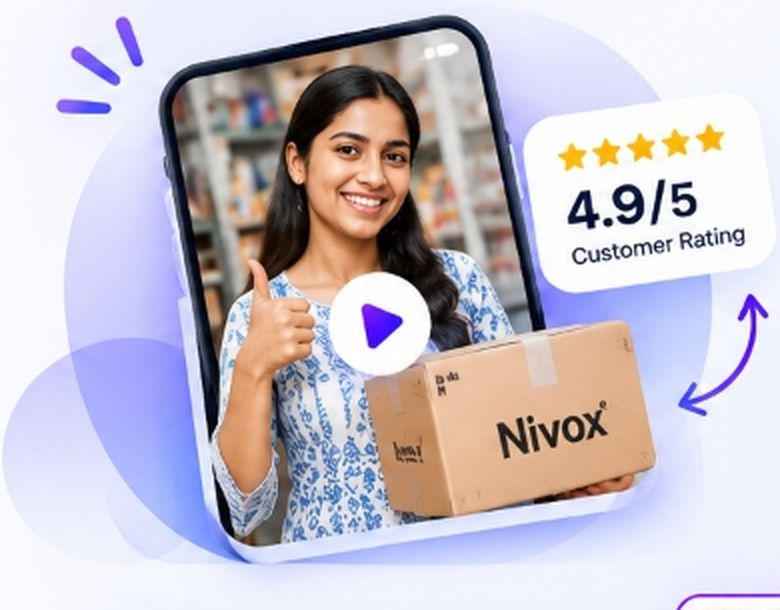
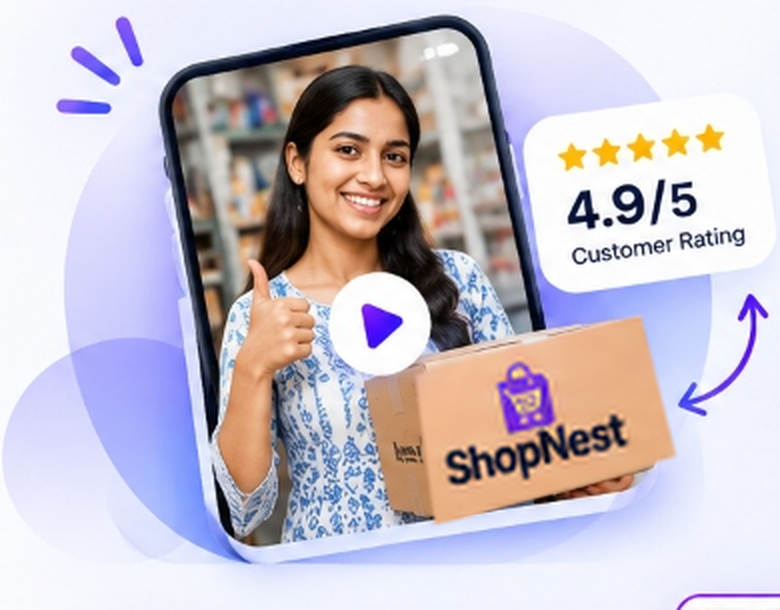
Update review showcase section branding to ShopNest matching uploaded reference image

Changed region(s): [[0.5231, 0.4984, 0.8923, 0.8721]]

diff --git a/src/scripts/views/reviewsView.js b/src/scripts/views/reviewsView.js
@@ -113,7 +113,7 @@ export const featuredReviewCards = [
     id: 3,
     name: "Vikram Patel",
     role: "Distributor, Coimbatore",
-    quote: "Bulk orders are now so easy with Ecommerce Platform. Amazing experience!",
+    quote: "Bulk orders are now so easy with ShopNest. Amazing experience!",
     image: "images/review-photo-3.jpg",
     avatar: "images/review-avatar-3.jpg",
     rating: 5,
@@ -179,7 +179,7 @@ export function renderReviewsShowcaseSection(options = {}) {
             <div class="review-hero-poster-wrap" id="${idPrefix}-poster-wrap" role="button" tabindex="0" aria-label="Play boutique owner unboxing review video">
               <img 
                 src="${baseUrl}images/review-hero-phone.png" 
-                alt="Customer video review - Ecommerce Platform wholesale verified retailer" 
+                alt="Customer video review - ShopNest wholesale verified retailer" 
                 class="review-exact-phone-img" 
                 loading="lazy"
               />
@@ -261,7 +261,7 @@ export function renderReviewsShowcaseSection(options = {}) {
 
           <!-- Subtitle -->
           <p class="review-exact-subtitle">
-            Hear from our happy customers who trust Ecommerce Platform for their wholesale needs.
+            Hear from our happy customers who trust <strong style="color: #7c3aed; font-weight: 800;">ShopNest</strong> Ecommerce Platform for their wholesale needs.
           </p>
 
           <!-- 3 Feature Badges -->

diff --git a/dist/index.html b/dist/index.html
@@ -8,7 +8,7 @@
   <link rel="preconnect" href="https://fonts.googleapis.com">
   <link rel="preconnect" href="https://fonts.gstatic.com" crossorigin>
   <link href="https://fonts.googleapis.com/css2?family=Caveat:wght@600&family=Inter:wght@400;500;600;700&family=Manrope:wght@600;700;800&display=swap" rel="stylesheet">
-  <script type="module" crossorigin src="/joli-enterprises/assets/index-BywOJNjL.js"></script>
+  <script type="module" crossorigin src="/joli-enterprises/assets/index-C7NEcgQc.js"></script>
   <link rel="stylesheet" crossorigin href="/joli-enterprises/assets/index-D07V_MCv.css">
 </head>
 <body class="is-landing-page">
